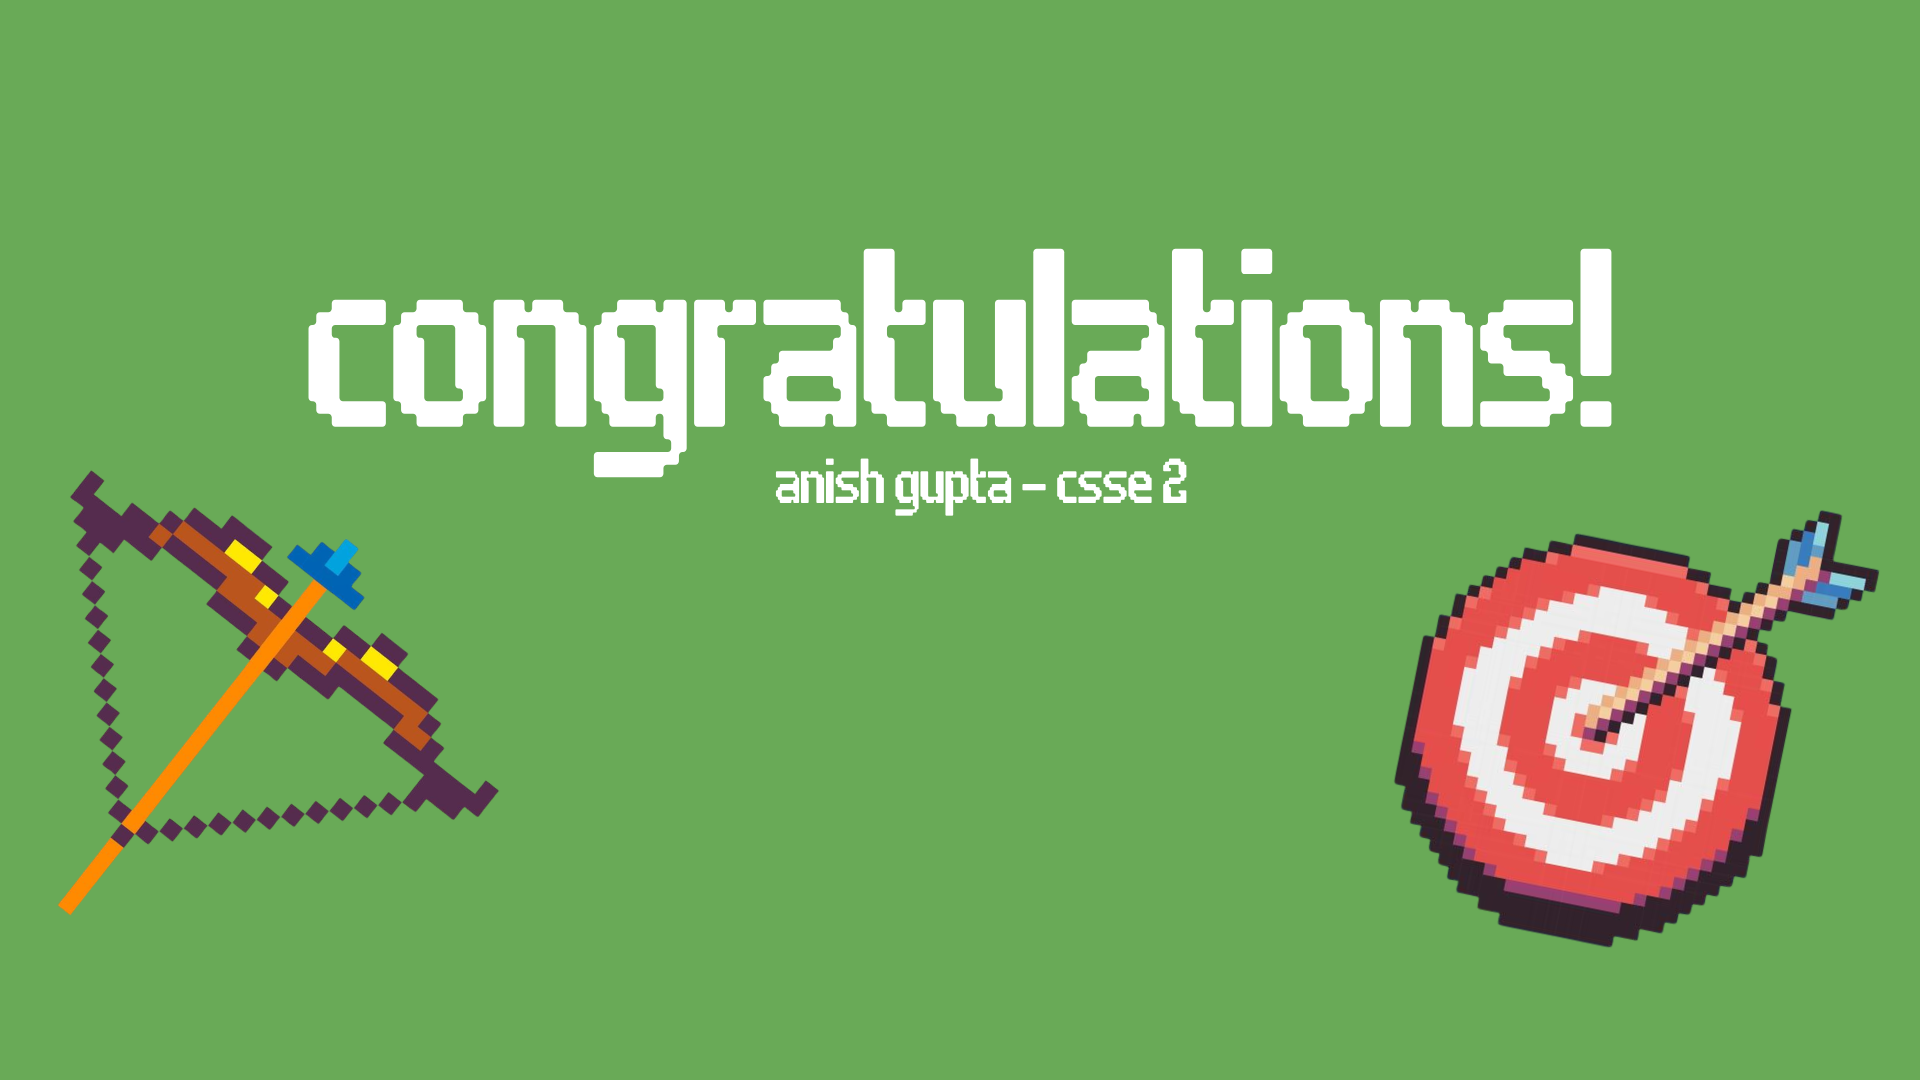
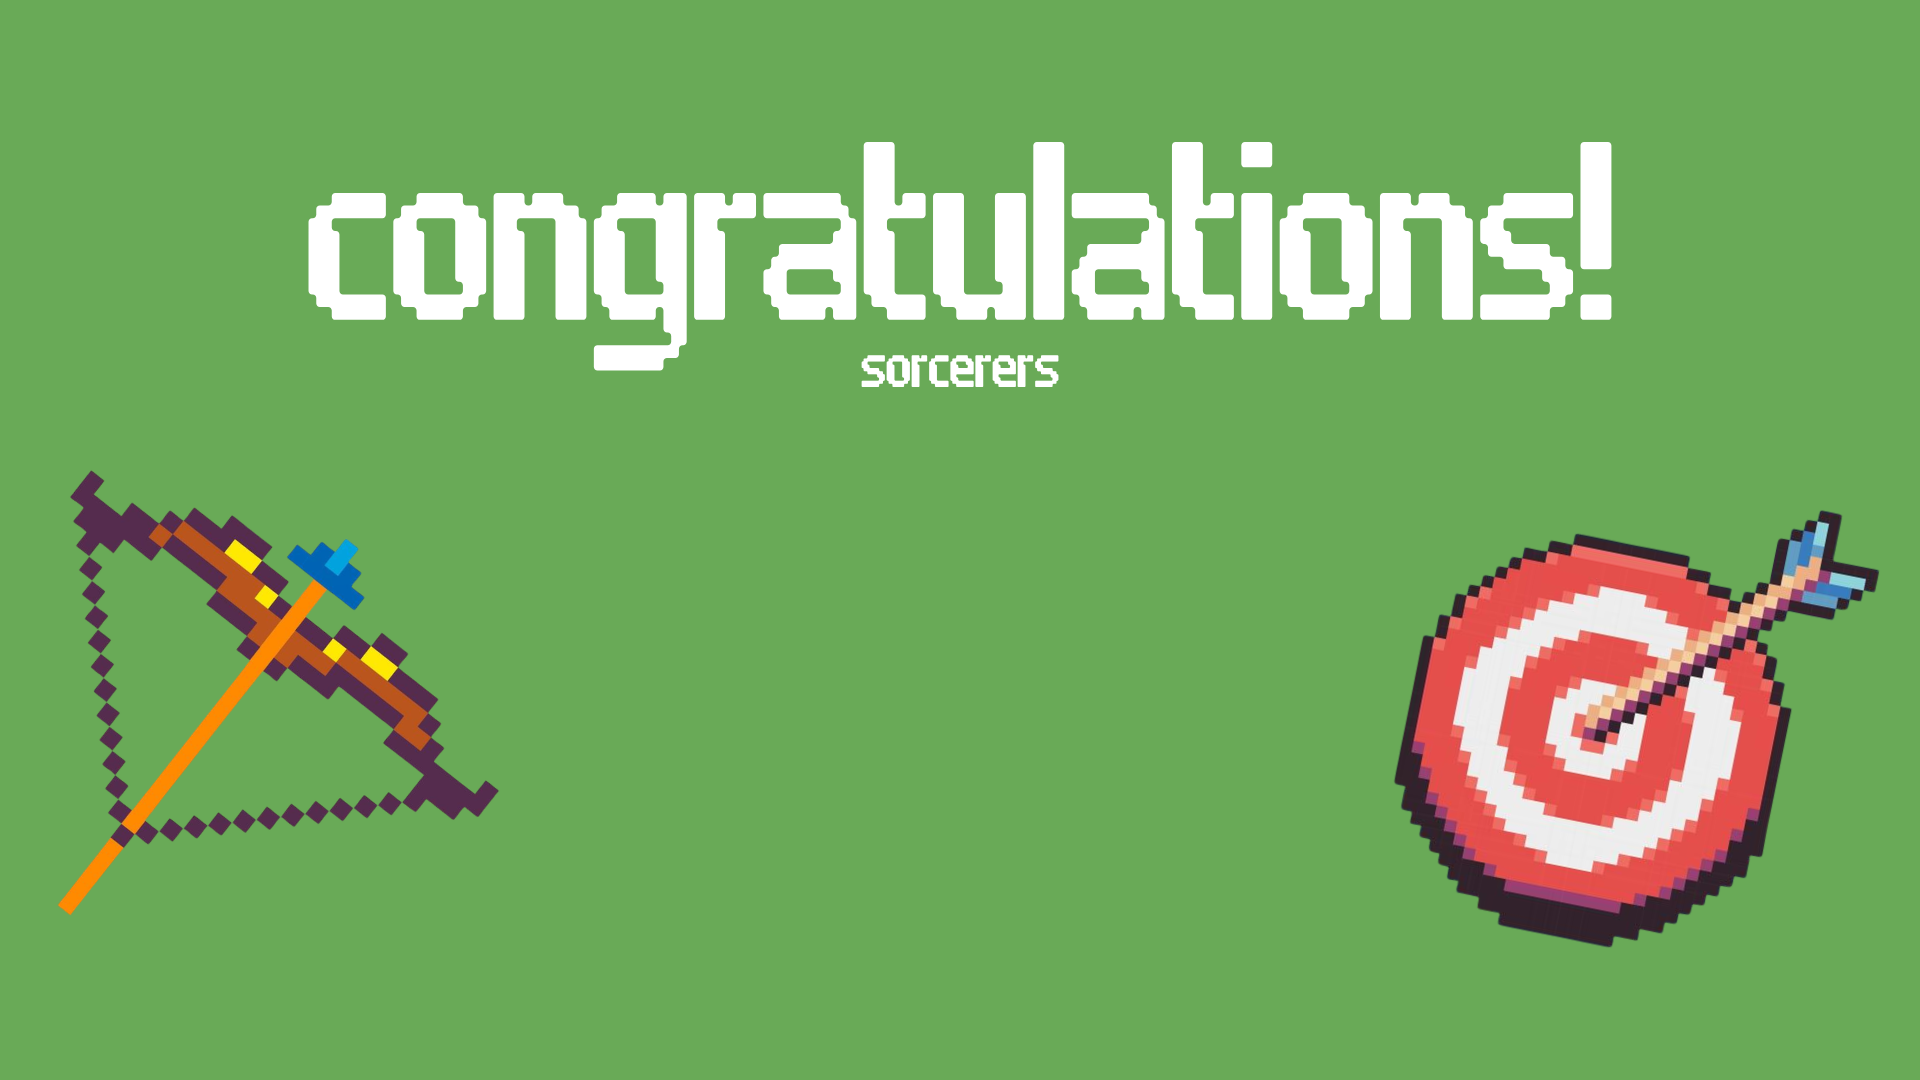
change archery end screen

Changed region(s): [[0.1562, 0.1222, 0.8438, 0.4583], [0.4062, 0.4278, 0.625, 0.4889]]

diff --git a/assets/js/castleGame/custom/ArcheryEndScreen.js b/assets/js/castleGame/custom/ArcheryEndScreen.js
@@ -101,7 +101,7 @@ export default function showEndScreen(gameEnv) {
     actionButton.textContent = 'Enter the castle';
     actionButton.style.position = 'absolute';
     actionButton.style.left = '50%';
-    actionButton.style.bottom = '10%';
+    actionButton.style.bottom = '15%';
     actionButton.style.transform = 'translateX(-50%)';
     actionButton.style.padding = '12px 22px';
     actionButton.style.border = '2px solid #ffffff';
